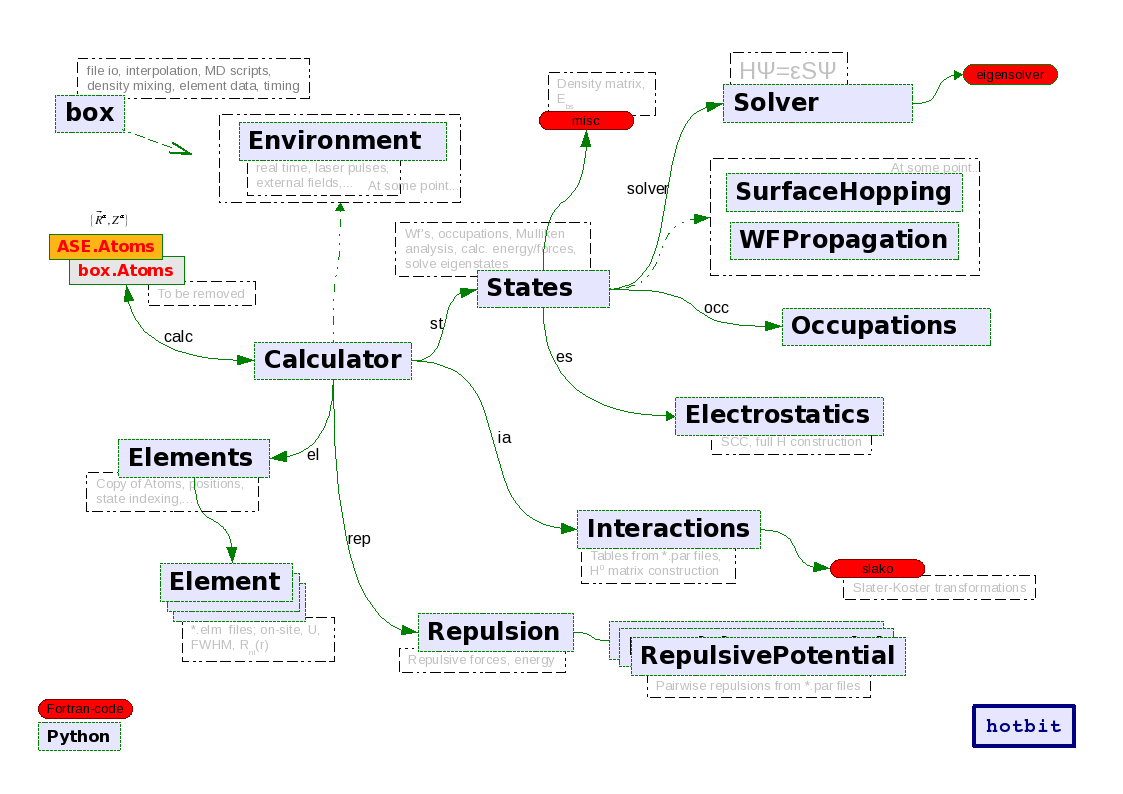
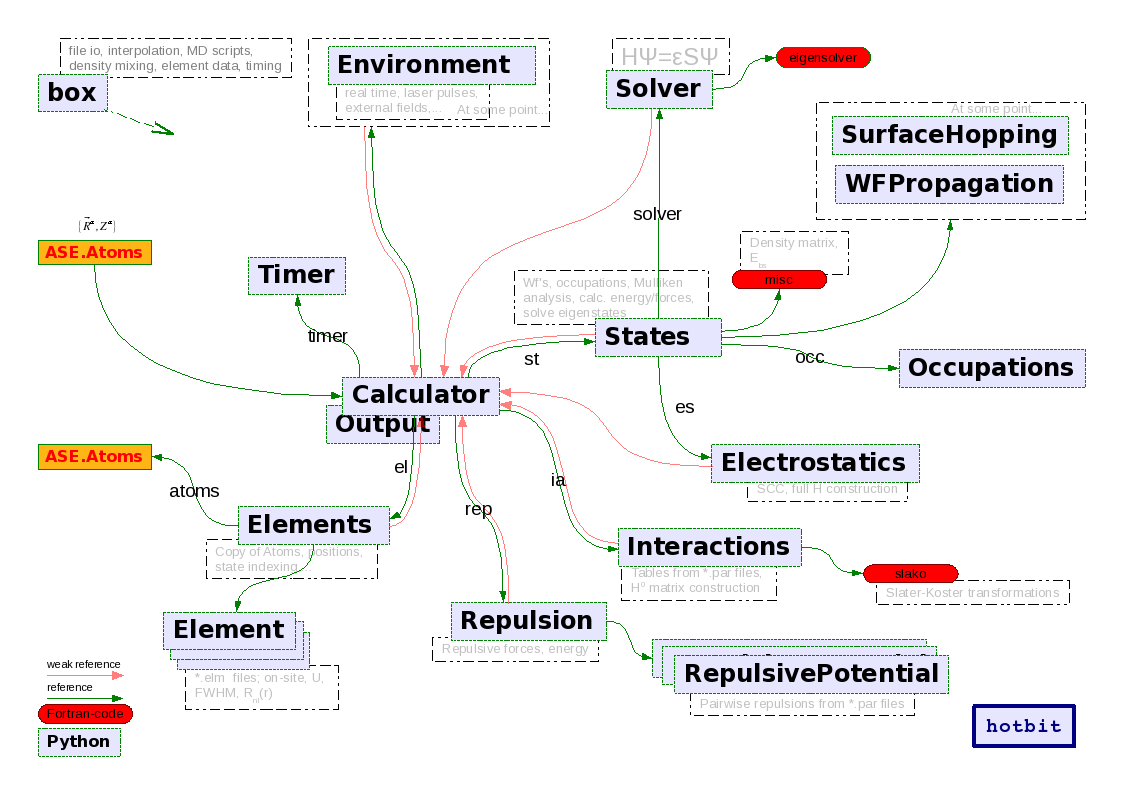
Structure of the code -picture now contains the references. Also a bug fix: the xyz-format does not have the unit cell.

diff --git a/hotbit/parametrization/fitting.py b/hotbit/parametrization/fitting.py
@@ -838,7 +838,9 @@ class RepulsiveFitting:
                 image = traj[i]
                 structures.append(image)
         elif ".xyz" in filename:
-            structures.append(read(filename))
+            structure = read(filename)
+            structure.center(vacuum=6)
+            structures.append(structure)
         else:
             raise Exception("Unknown file format: %s" % structure)
         return structures
